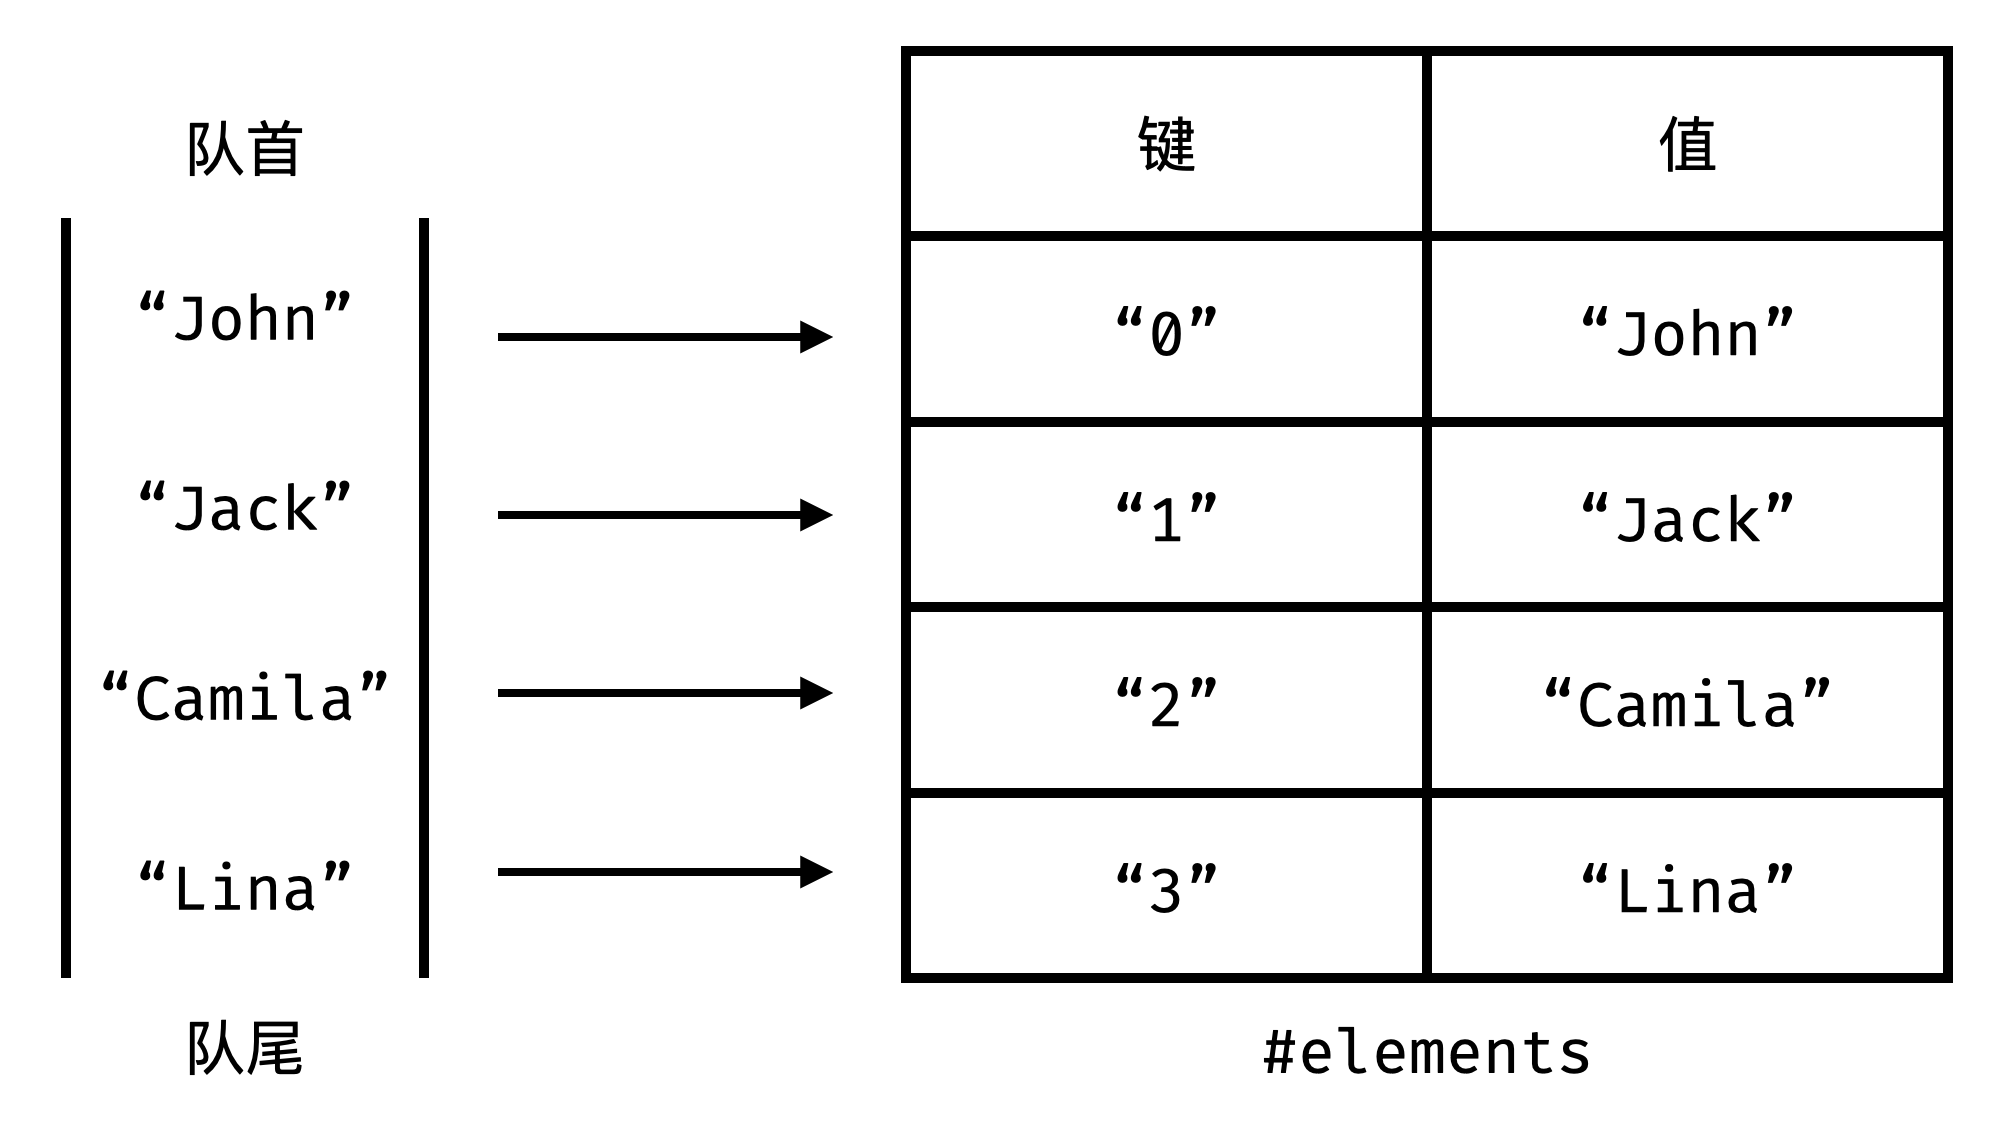
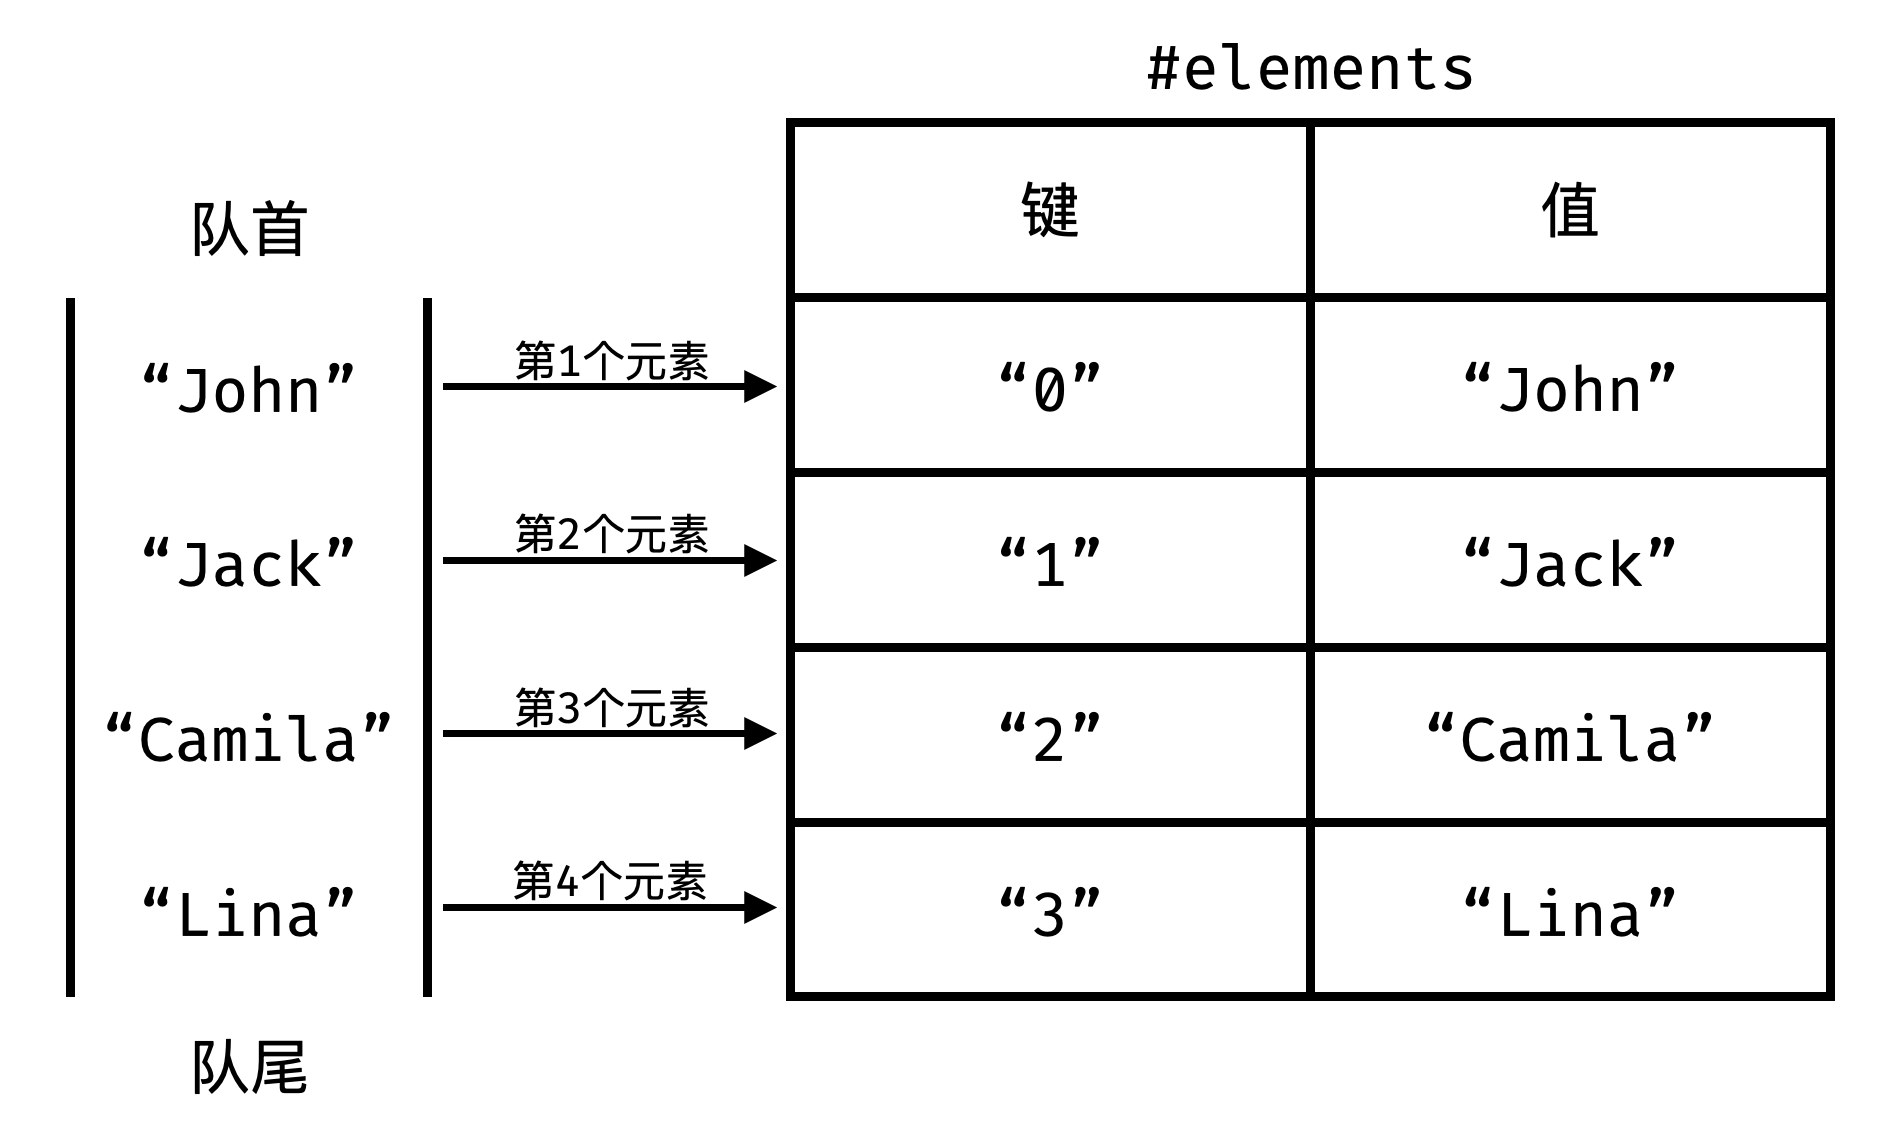
update queue.md

Changed region(s): [[0.0311, 0.0309, 0.9947, 0.9585], [0.0933, 0.8966, 0.1554, 0.9585]]

diff --git a/markdown/leetcode/queue.md b/markdown/leetcode/queue.md
@@ -27,21 +27,29 @@ JavaScript 中没有队列这种数据结构，我们将使用对象来实现一
 | ------ | -------------- |
 | size   | 查询元素的数量 |
 
-### 第一步：实现思路
+### 第一步：明确实现的思路
 
 我们会创建一个名为 `Queue` 的类来代表队列，在 `Queue` 的内部，我们会创建一个名为 `#elements` 的内部属性，它是一个普通的 JavaScript 对象，比如 `{}`，我们用它来存储队列中的元素。具体来说，`#elements` 对象使用键值对来存储队列中的元素，其中键是元素的序号字符串，值就是元素。
 
 ![#elements内部属性](/static/image/markdown/leetcode/queue/elements-property.png)
 
-如果我们修改了队列，那么我们就需要更新 `#elements` 的键值对，在说明如何更新 `#elements` 之前，我们需要先了解一下 `#elements` 是如何存储队列中的元素的。具体来说，我们会先创建 2 个指针，其中一个名为 `#from`，另一个名为 `#to`，指针 `#from` 会指向队首元素在 `#elements` 中的位置，指针 `#to` 会指向队尾元素在 `#elements` 中的位置的 **下一个位置**。
+如果我们修改了队列，那么我们就需要更新 `#elements` 的键值对，在说明如何更新 `#elements` 之前，我们需要先了解一下 `#elements` 是如何存储队列中的元素的。具体来说，我们会先创建 2 个指针，其中一个名为 `#from`，另一个名为 `#to`，指针 `#from` 会指向队首元素在 `#elements` 中的位置，指针 `#to` 会指向队尾元素在 `#elements` 中的位置的 **下一个位置**，就像下图这样。
 
+> 注意：`#from` 和 `#to` 不是 C 语言中的指针，在这个例子中，`#from` 和 `#to` 中存储的值是序号字符串。
 
+![指针#from和#to](/static/image/markdown/leetcode/queue/pointer-from-and-to.png)
 
-比如我们从队首移除了 `"John"`，并向队尾依次添加了 `"Camila"` 和 `Lina`，那么
+这种设计的好处之一是我们可以基于 `#from` 和 `#to` 的值来推算出 `#elements` 中所有的键值对（即队列中所有的元素），另一个好处是我们只需要移动指针的位置（即改变指针的值）即可实现移除和添加元素，而不需要像数组的 `splice` 方法那样重排所有元素的序号。举个例子，如果我们要移除掉队首的 `"John"` 和向队尾添加 `"Jynx"` 和 `"Neo"`，那么我们只需要将 `#from` 和 `#to` 各自向下移动 1 格和 2 格就可以了，就像下图这样。
 
-### 第一步：创建队列的类
+![使用指针来修改队列](/static/image/markdown/leetcode/queue/change-queue-by-pointer.png)
 
-我们会创建一个名为 `Queue` 的类来代表队列这种数据结
+明确了实现队列的核心思路后，就可以开始实现我们的队列了。
+
+### 第二步：创建队列的类
+
+从这一步开始，我们就要正式开始创建我们的队列了，简明的代码比啰嗦的文字要更加易懂，所以请直接来看代码吧！
+
+首先，创建类的大致结构。
 
 ```js
 class Queue {
@@ -50,10 +58,22 @@ class Queue {
     #from = 0;
     #elements = {};
     
+	constructor( ... elements ) {}
+    
+    enqueue( ... elements ) {}
+    
+    dequeue() {}
+
+    clear() {}
+    
+    peek() {}
+    
 }
 ```
 
 
+
+然后，创建类的构造函数
 
 ```js
 class Queue {
@@ -71,9 +91,9 @@ class Queue {
     
     enqueue( ... elements ) {
         
-        elements.forEach( ( element, index ) => {
+        elements.forEach( element => {
             
-            this.#elements[ this.to + index ] = element;
+            this.#elements[ this.to ] = element;
             this.#to ++;
             this.size ++;
             
@@ -101,9 +121,10 @@ class Queue {
         
         this.#to = 0;
         this.#from = 0;
+        this.#elements = {};
         this.size = 0;
 
-        return this.#elements = {};
+        return this.#elements;
         
     }
     
